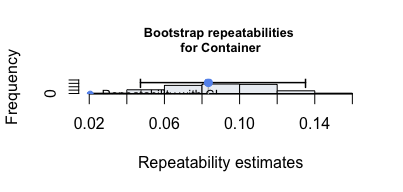
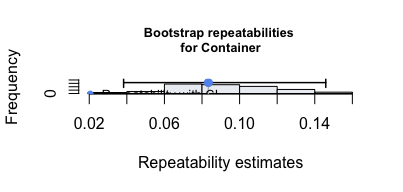
readme finetuning

Changed region(s): [[0.2382, 0.4062, 0.8933, 0.5]]

diff --git a/README.md b/README.md
@@ -72,12 +72,12 @@ summary(rpts)
 #> 
 #> Repeatability estimation overview: 
 #>       R     SE   2.5%  97.5% P_permut  LRT_P
-#>  0.0834 0.0241 0.0473  0.135     0.01      0
+#>  0.0834 0.0277 0.0383  0.146     0.01      0
 #> 
 #> Bootstrapping and Permutation test: 
 #>             N    Mean   Median   2.5%  97.5%
-#> boot      100 0.08967 9.19e-02 0.0473  0.135
-#> permut    100 0.00375 4.23e-11 0.0000  0.019
+#> boot      100 0.09079 0.086579 0.0383  0.146
+#> permut    100 0.00511 0.000315 0.0000  0.021
 #> 
 #> Likelihood ratio test: 
 #> logLik full model = -1528.553
@@ -91,12 +91,12 @@ summary(rpts)
 #> 
 #> Repeatability estimation overview: 
 #>       R     SE   2.5%  97.5% P_permut  LRT_P
-#>   0.491 0.0986  0.274  0.645     0.03      0
+#>   0.491  0.116  0.207  0.629     0.01      0
 #> 
 #> Bootstrapping and Permutation test: 
 #>             N   Mean Median   2.5%  97.5%
-#> boot      100  0.467  0.476  0.274  0.645
-#> permut    100  0.454  0.453  0.421  0.490
+#> boot      100  0.450  0.457  0.207  0.629
+#> permut    100  0.451  0.451  0.412  0.488
 #> 
 #> Likelihood ratio test: 
 #> logLik full model = -1528.553
@@ -110,12 +110,7 @@ summary(rpts)
 
 ``` r
 plot(rpts, grname = "Container", type = "boot", cex.main = 0.8, col = "#ECEFF4")
-```
-
-![](README-gaussian-1.png)
-
-``` r
 plot(rpts, grname = "Population", type = "boot", cex.main = 0.8, col = "#ECEFF4")
 ```
 
-![](README-gaussian-2.png)
+![](README-gaussian-1.png)![](README-gaussian-2.png)
